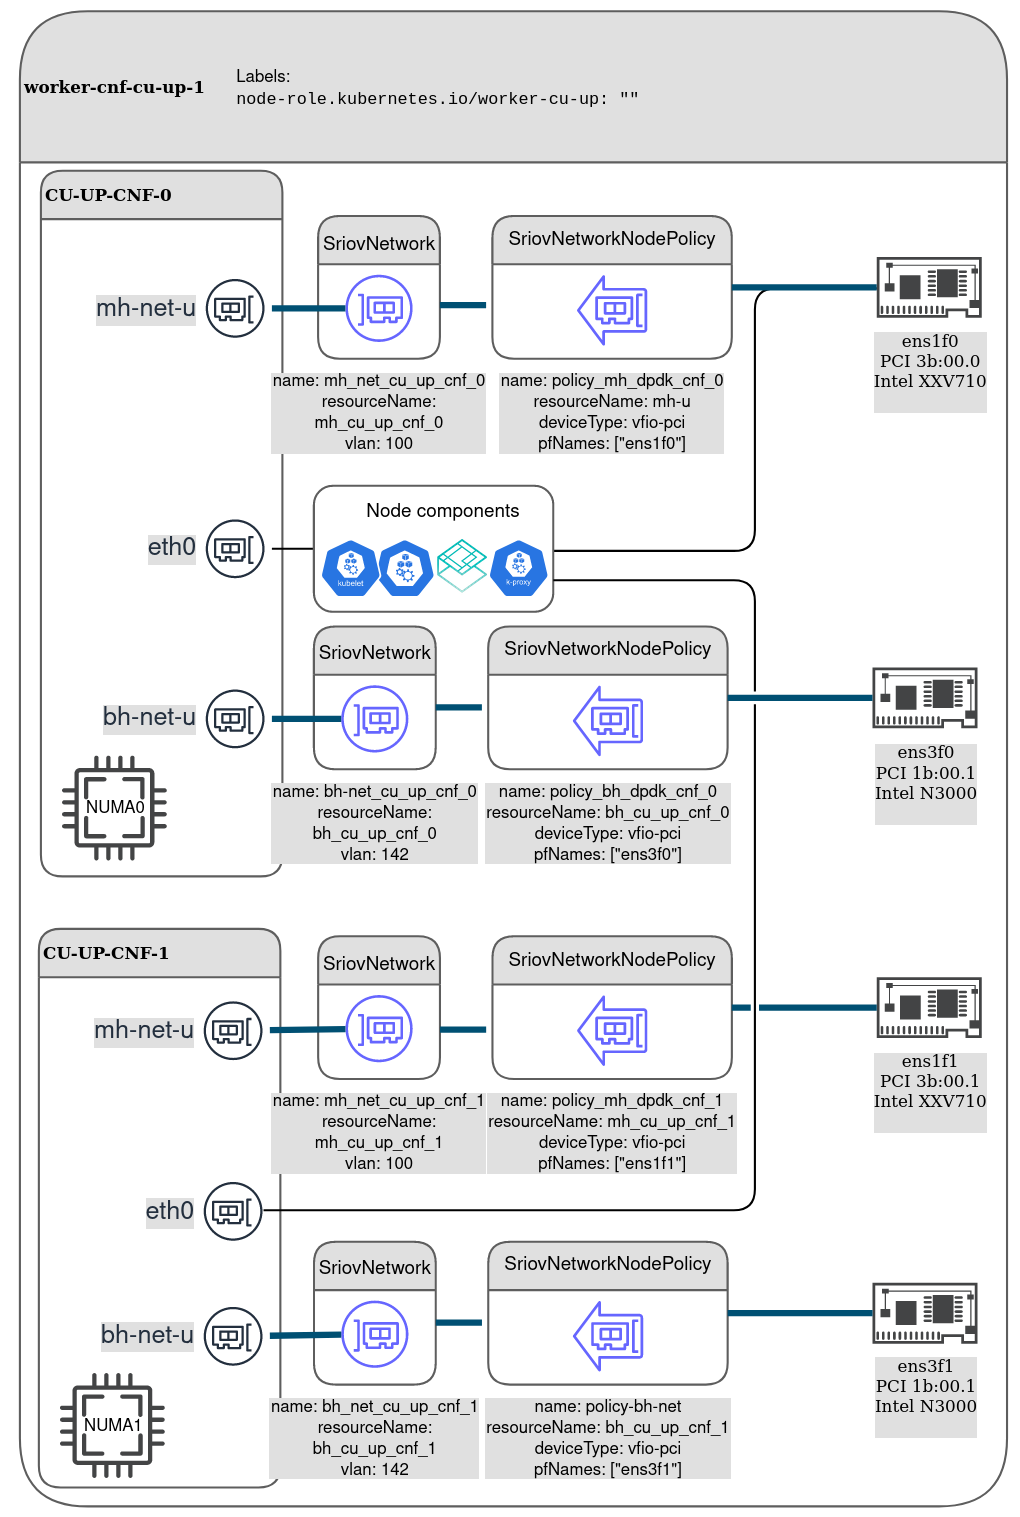
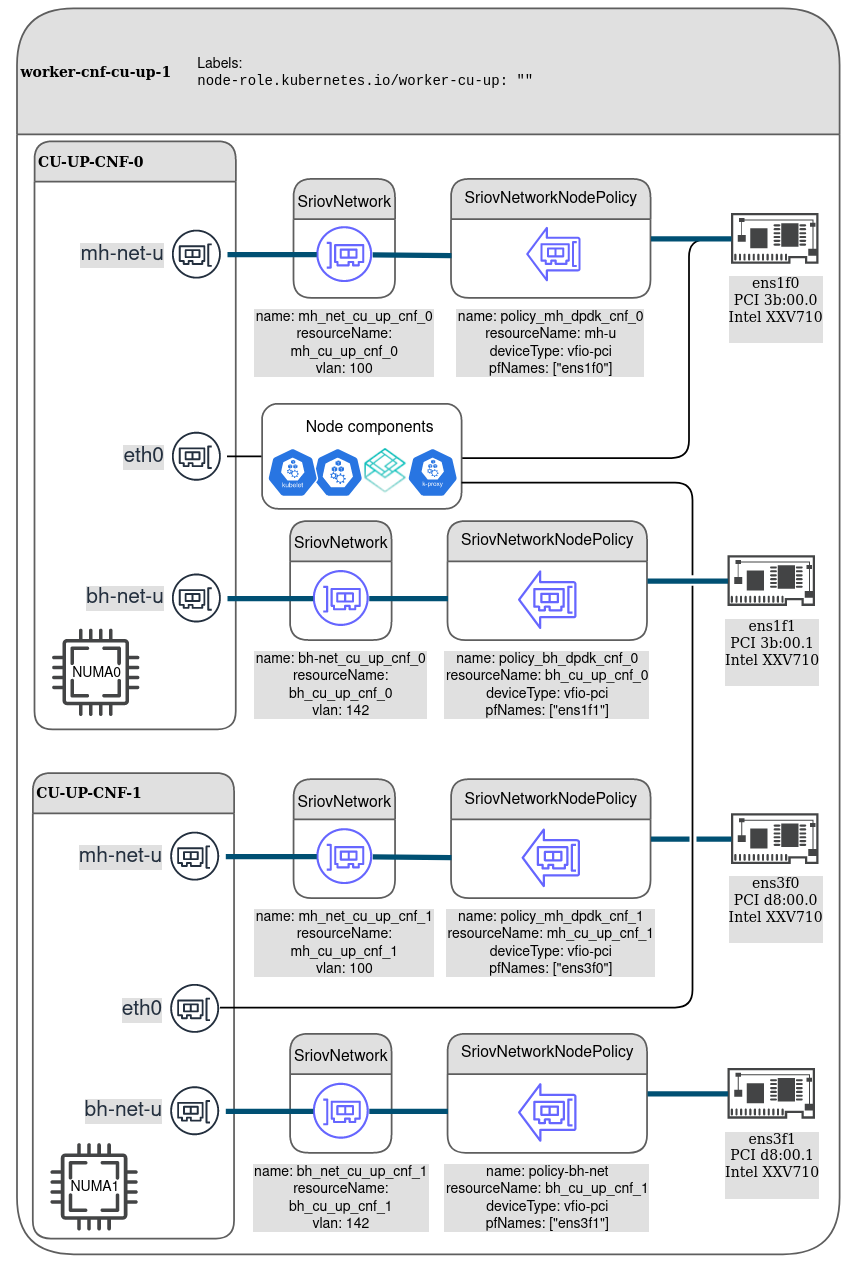
Update README with network HW config

diff --git a/feature-configs/cn-ran-overlays/README.md b/feature-configs/cn-ran-overlays/README.md
@@ -36,7 +36,7 @@ The [`ran-profile`](ran-profile) directory contains the Kustomize profile for de
 
 The profile is built from one cluster specific folder and one or more site-specific folders. This is done to address a deployment that includes remote worker nodes (several sites belonging to the same cluster).
 The [`cluster-config`](ran-profile/cluster-config) directory contains performance and PTP customizations based upon operator deployments in [`deploy`](../feature-configs/deploy) folder.
-The [`site.1.fqdn`](site.1.fqdn) folder contains site-specific network customizations.
+The [`site.1.fqdn`](site.1.fqdn) folder contains site-specific network customizations. There could be several sites in one cluster, in case each site accommodates one ore more remote worker nodes.
 
 
 # Prerequisites
@@ -91,24 +91,30 @@ oc label --overwrite node/{your node name} node-role.kubernetes.io/worker-du=""
 oc label --overwrite node/{your node name} ptp/slave=""
 ```
 
+
 ### CU-CP nodes
 ```bash
 oc label --overwrite node/{your node name} node-role.kubernetes.io/worker-cu-cp=""
 ```
+
 
 ### CU-UP nodes
 ```bash
 oc label --overwrite node/{your node name} node-role.kubernetes.io/worker-cu-up=""
 ```
 
+
 ## 3. Update the manifests for your specific hardware 
 Performance profiles, SR-IOV network policies and PTP profile must take the specific hardware details into account.
+
 
 ### Performance profile
 Update the cpu section of `performance-profile-du.yaml`, `performance-profile-cu-cp.yaml` and `performance-profile-cu-up.yaml` to reflect the amount of CPU cores available on the correspondent nodes, Update the `hugepages` section to reflect your application memory requirements.
 
+
 ### SR-IOV network node policies
 Update the SR-IOV network node policies to reflect the manufacturer details and physical NIC port names on your hardware.
+
 
 #### SR-IOV configuration notes
 SriovNetworkNodePolicy object must be configured differently for different NIC models and placements. 
@@ -129,8 +135,53 @@ CU-CP networks are described [here](#cu_cp_nw)
 
 DU networks are described [here](#du_nw)
 
-#### How to find your NIC information
-TODO
+
+#### __How to find your NIC information__
+SSH to your worker node:
+```bash
+ssh core@<your worker node>
+```
+
+
+##### __Find relation between interface names and PCI addresses__
+```bash
+[core@node ~]$ grep PCI_SLOT_NAME /sys/class/net/*/device/uevent
+/sys/class/net/eno1/device/uevent:PCI_SLOT_NAME=0000:19:00.0
+/sys/class/net/eno2/device/uevent:PCI_SLOT_NAME=0000:19:00.1
+/sys/class/net/ens1f0/device/uevent:PCI_SLOT_NAME=0000:3b:00.0
+/sys/class/net/ens1f1/device/uevent:PCI_SLOT_NAME=0000:3b:00.1
+/sys/class/net/ens3f0/device/uevent:PCI_SLOT_NAME=0000:d8:00.0
+/sys/class/net/ens3f1/device/uevent:PCI_SLOT_NAME=0000:d8:00.1
+
+```
+
+
+##### __Find NIC NUMA nodes__
+
+```bash
+[core@node ~]$ cat /sys/class/net/*/device/numa_node
+0
+0
+0
+0
+1
+1
+
+```
+
+
+##### __Find relation between PCI addresses and NIC manufacturers__
+```bash
+[core@node ~]$ lspci |grep Ether
+19:00.0 Ethernet controller: Mellanox Technologies MT27710 Family [ConnectX-4 Lx]
+19:00.1 Ethernet controller: Mellanox Technologies MT27710 Family [ConnectX-4 Lx]
+3b:00.0 Ethernet controller: Intel Corporation Ethernet Controller XXV710 for 25GbE SFP28 (rev 02)
+3b:00.1 Ethernet controller: Intel Corporation Ethernet Controller XXV710 for 25GbE SFP28 (rev 02)
+d8:00.0 Ethernet controller: Intel Corporation Ethernet Controller XXV710 for 25GbE SFP28 (rev 02)
+d8:00.1 Ethernet controller: Intel Corporation Ethernet Controller XXV710 for 25GbE SFP28 (rev 02)
+
+```
+
 
 ### PTP NIC port selector in PTP profile
 Update the PTP slave port selector in the [`ptpconfig-slave.yaml`](ran-profile/cluster-config/du-common/ptp/ptpconfig-slave.yaml)
@@ -145,6 +196,11 @@ spec:
 
 
 ### <a name="cu_up_nw"></a>CU-UP networks
+
+In addition to default cluster network, CU-UP operates on the following networks in this example:
+- __mh-net-u__ - Midhaul user plane network. The standard name of this network is F1-U, but in practical implementation it can be aggregated with management network(s)
+- __bh-net-u__ - Backhaul user plane network
+
 <img src="images/cu-up.png">
 
 ### <a name="cu_cp_nw"></a>CU-CP networks
